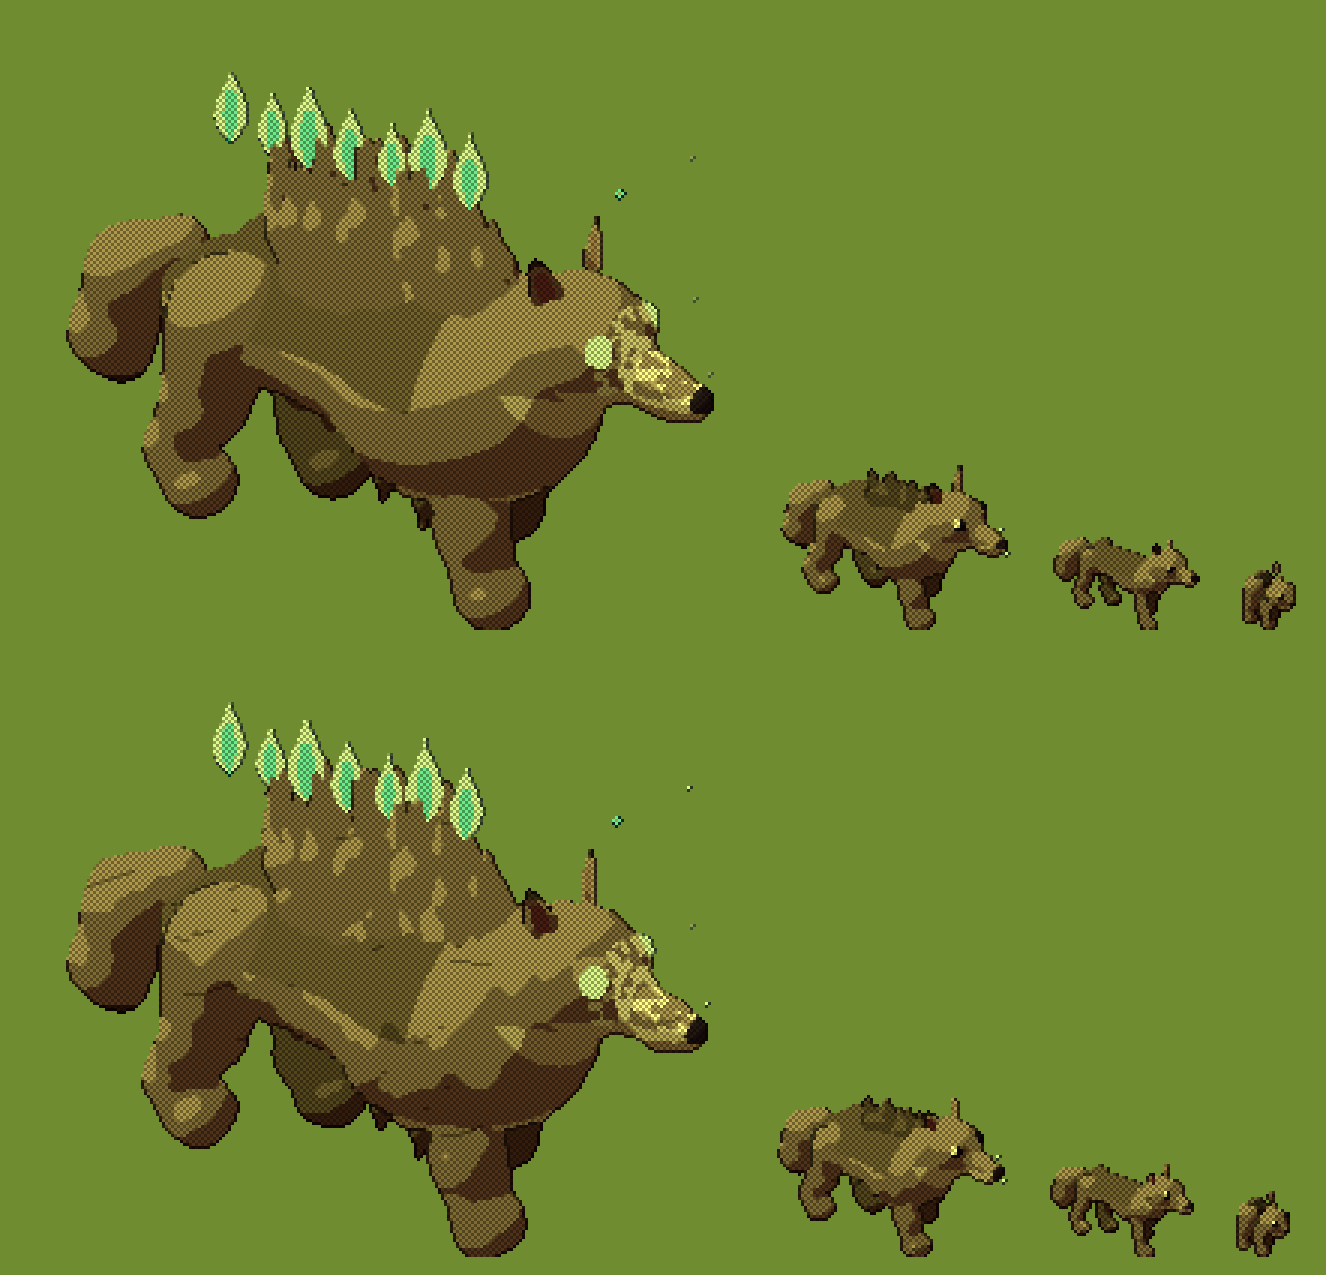
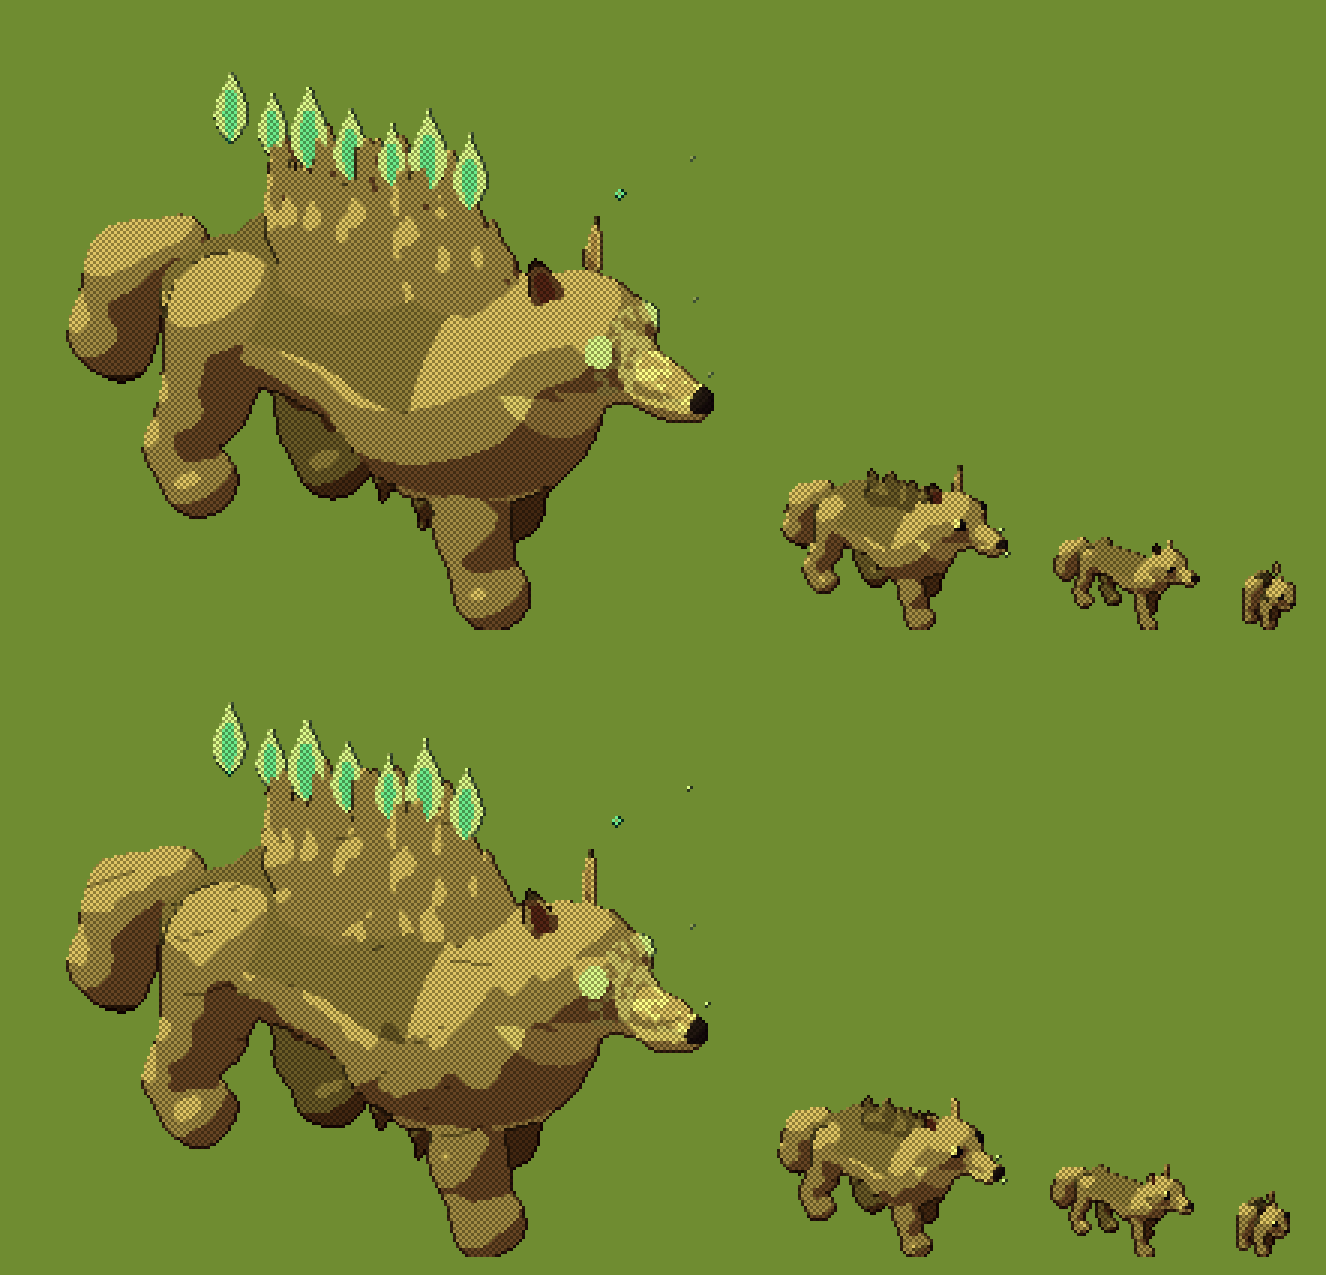
Wolf: a paler coat, so it reads on night ground
The art director's round-1 notes: wolves were dark grey on dark stone and
vanished in the night fight. Its coat is lighter (value .56 to .72), its
saddle and mane still darker than its back.

Claude-Session: https://claude.ai/code/session_01CCJ1G3QaUxYK9jSu9176NM

diff --git a/art/genome/species.js b/art/genome/species.js
@@ -13,7 +13,7 @@
 //   coat: markings: belly, saddle, spots, spotMat, socks, shaggy, wool, ridge, rump, legMat.
 //   legend: what the legendary form grows (FEATURE_NAMES in creatures.js).
 export const GENOMES = [
-  { id: "wolf", name: "Wolf", template: "quadruped", builder: "quad", palette: { hue: .08, sat: .24, val: .56 }, body: { len: .64, chest: .42, tuck: .6, neck: .32, neckAng: .7, neckW: .42, hr: .26, legW: 1.25 }, head: { snout: .82, snoutD: .7 }, parts: { ears: { kind: "point", size: .82 }, tail: "brush", feet: "paw" }, coat: { belly: true, saddle: true }, legend: ["wings", "mane"],
+  { id: "wolf", name: "Wolf", template: "quadruped", builder: "quad", palette: { hue: .08, sat: .2, val: .72 }, body: { len: .64, chest: .42, tuck: .6, neck: .32, neckAng: .7, neckW: .42, hr: .26, legW: 1.25 }, head: { snout: .82, snoutD: .7 }, parts: { ears: { kind: "point", size: .82 }, tail: "brush", feet: "paw" }, coat: { belly: true, saddle: true }, legend: ["wings", "mane"],
     // its evolution (docs/art-guide/EVOLUTIONS.md): a round pup with big paws and floppy ears, a lanky young, an adult with a heavy
     // shaggy mane over its shoulders, and the legend: shoulders twice its hips, a mane of spiky locks, pale spirit-fire along its
     // spine, glowing eyes and frost on its muzzle
